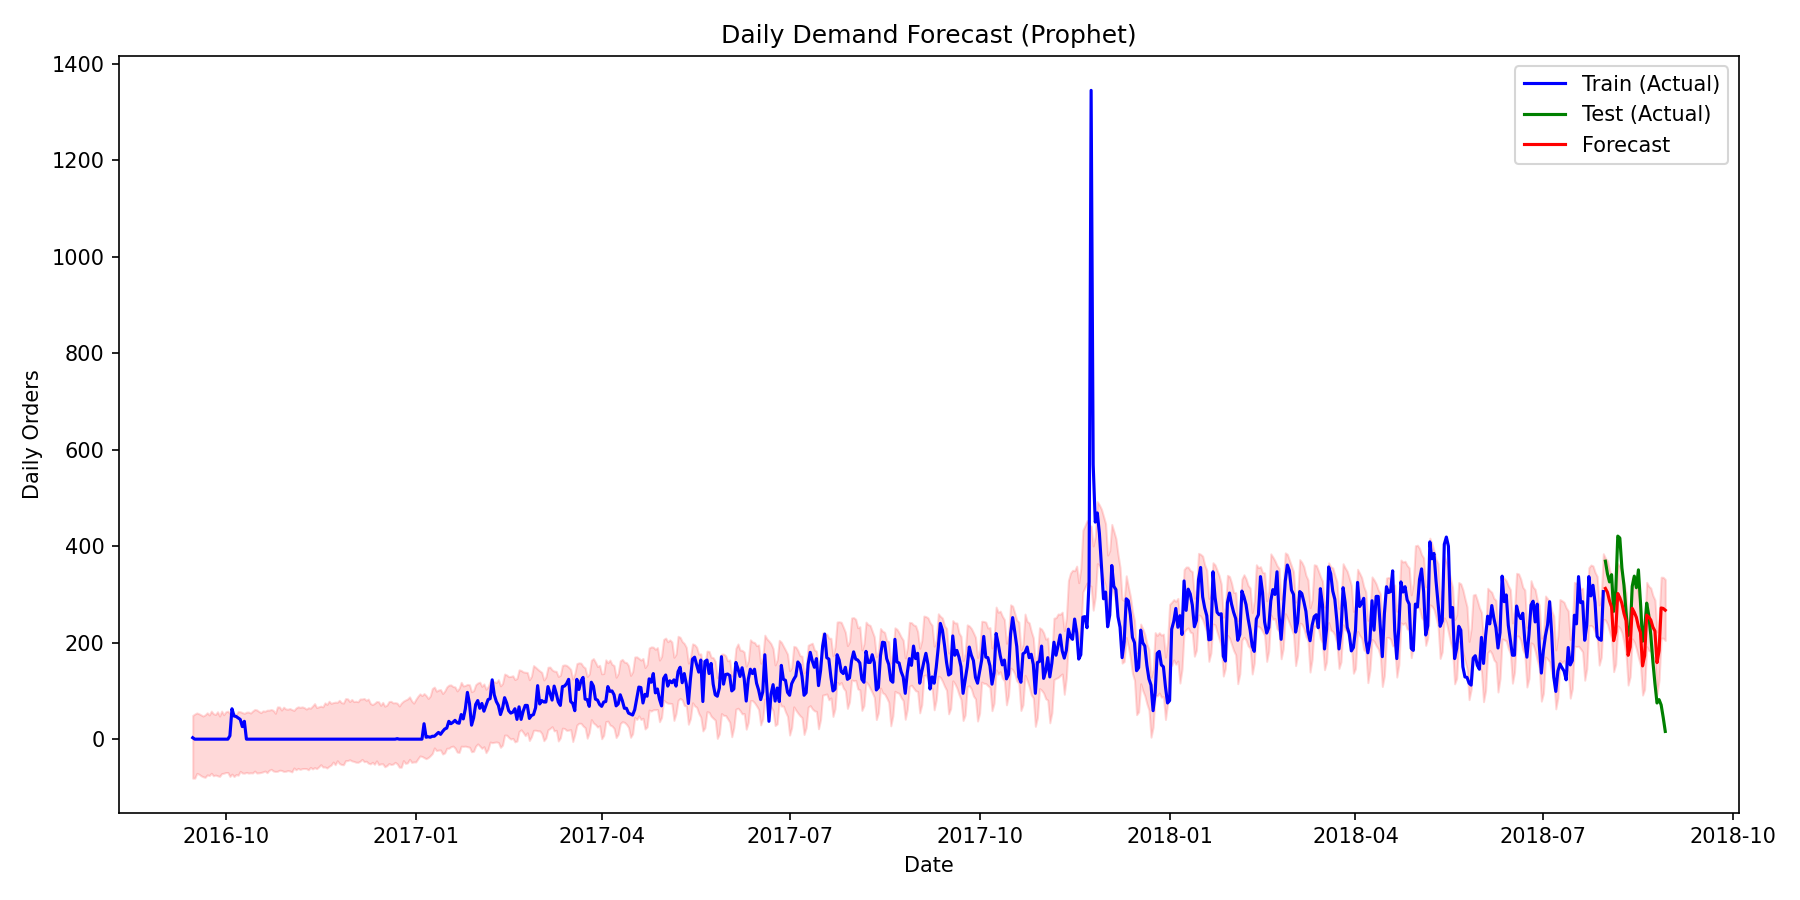
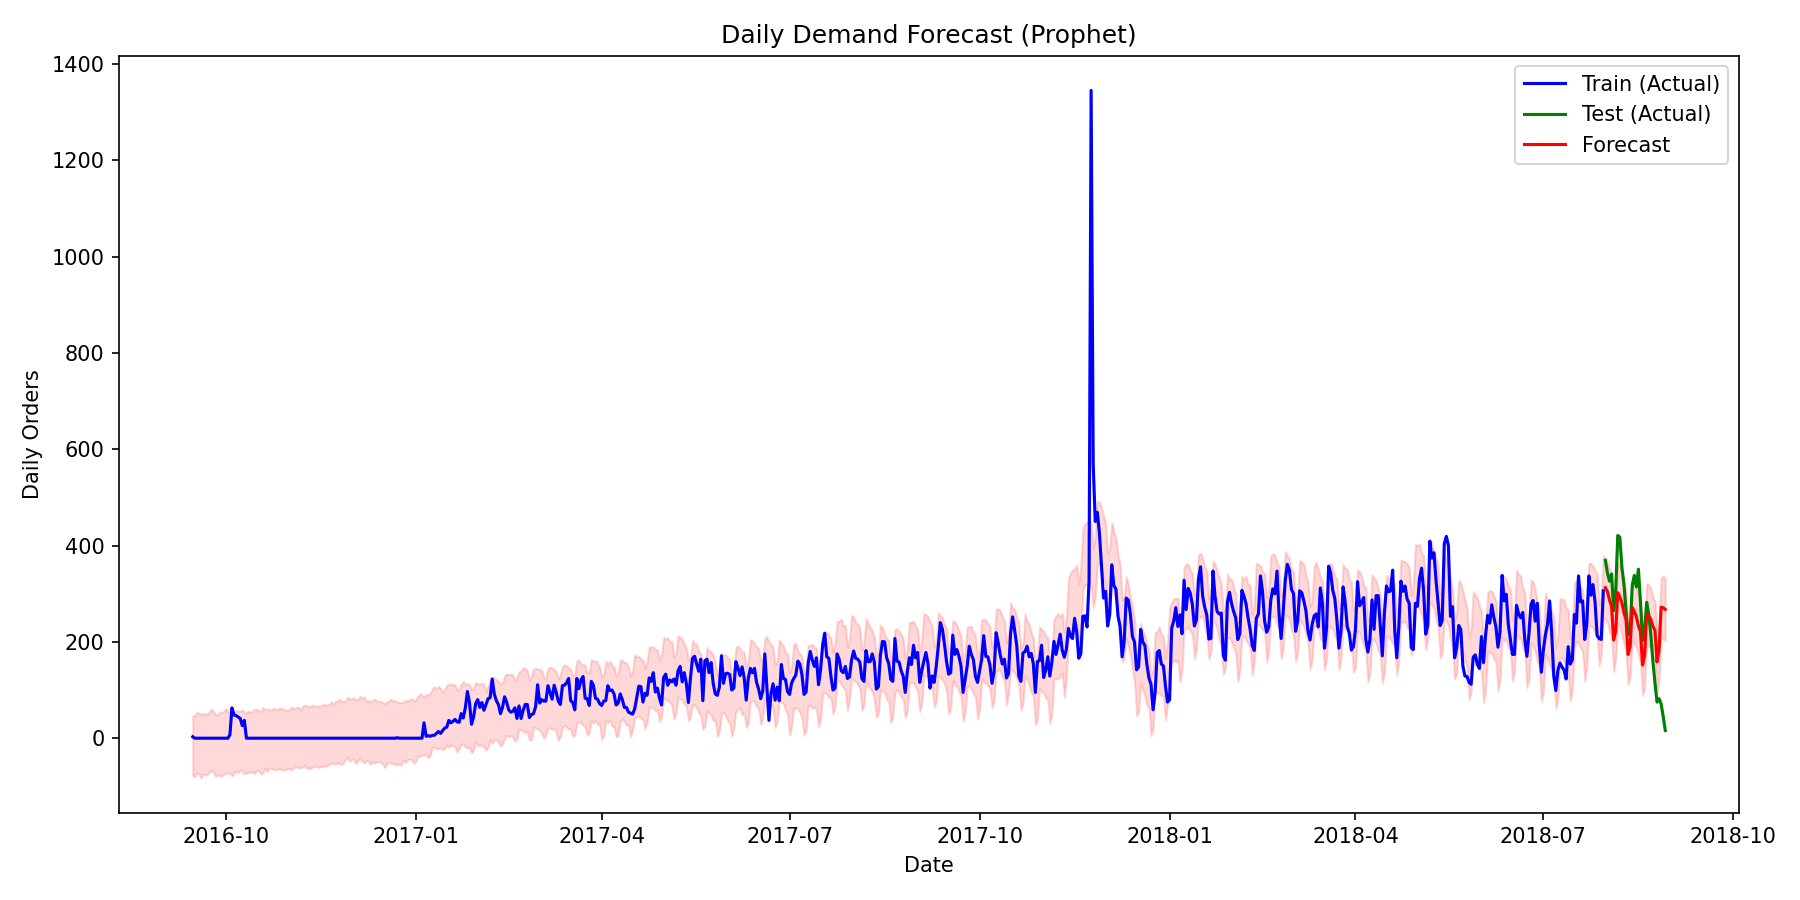
added dynamic features and better models for visualization

diff --git a/app/dashboard.py b/app/dashboard.py
@@ -156,6 +156,56 @@ else:
     orders, items, daily_sales, inventory = load_default_data()
 
 st.sidebar.markdown("---")
+
+# ==========================================
+# SIDEBAR FILTERS (Interactive Analysis)
+# ==========================================
+st.sidebar.markdown("---")
+st.sidebar.subheader("🔍 Global Filters")
+
+# Check if orders data is available to extract states/dates
+if not orders.empty and 'customer_state' in orders.columns:
+    # 1. State Filter
+    all_states = sorted(orders['customer_state'].dropna().unique())
+    selected_states = st.sidebar.multiselect(
+        "Filter by Destination State(s)",
+        options=all_states,
+        default=all_states[:3], # Select first 3 by default to keep it fast
+        help="Select specific Brazilian states to filter the metrics, charts, and predictions."
+    )
+    
+    # Apply State Filter to DataFrame
+    if selected_states:
+        filtered_orders = orders[orders['customer_state'].isin(selected_states)]
+    else:
+        filtered_orders = orders.copy()
+else:
+    filtered_orders = orders.copy()
+
+# 2. Date Range Filter (if purchase timestamp exists)
+if not filtered_orders.empty and 'order_purchase_timestamp' in filtered_orders.columns:
+    min_date = filtered_orders['order_purchase_timestamp'].min().date()
+    max_date = filtered_orders['order_purchase_timestamp'].max().date()
+    
+    selected_date_range = st.sidebar.date_input(
+        "Filter by Date Range",
+        value=(min_date, max_date),
+        min_value=min_date,
+        max_value=max_date,
+        help="Select a start and end date range to narrow down order telemetry."
+    )
+    
+    # Apply Date Range Filter if both start and end dates are selected
+    if len(selected_date_range) == 2:
+        start_d, end_d = selected_date_range
+        filtered_orders = filtered_orders[
+            (filtered_orders['order_purchase_timestamp'].dt.date >= start_d) & 
+            (filtered_orders['order_purchase_timestamp'].dt.date <= end_d)
+        ]
+
+st.sidebar.success(f"📊 Active Records: {len(filtered_orders):,} orders loaded.")
+st.sidebar.markdown("---")
+
 # ==========================================
 # PAGE 1: EXECUTIVE OVERVIEW
 # ==========================================
@@ -163,32 +213,39 @@ if page == "📊 Executive Overview":
     st.title("Supply Chain & Logistics Performance Dashboard")
     st.markdown("Operational overview of fulfillment metrics, SLAs, and delivery timelines across Brazil.")
 
-    if orders.empty or items.empty:
-        st.error("Processed data files not found in `data/processed/`. Please verify your folder structure.")
+    if filtered_orders.empty or items.empty:
+        st.error("Processed data files not found or filtered dataset is empty. Please check your filters or data source.")
     else:
-        orders['on_time'] = orders['delay_days'] <= 0
-        otd_rate = orders['on_time'].mean() * 100
-        avg_delivery = orders['delivery_time_days'].mean()
-        avg_delay = orders['delay_days'].mean()
+        # Use filtered_orders for calculations so sidebar filters work instantly!
+        filtered_orders['on_time'] = filtered_orders['delay_days'] <= 0
+        otd_rate = filtered_orders['on_time'].mean() * 100
+        avg_delivery = filtered_orders['delivery_time_days'].mean()
+        avg_delay = filtered_orders['delay_days'].mean()
         
-        order_freight = items.groupby('order_id')['freight_value'].sum().reset_index()
-        avg_freight = order_freight['freight_value'].mean()
+        # Match items with filtered orders
+        filtered_items = items[items['order_id'].isin(filtered_orders['order_id'])]
+        order_freight = filtered_items.groupby('order_id')['freight_value'].sum().reset_index()
+        avg_freight = order_freight['freight_value'].mean() if not order_freight.empty else 0.0
 
         col1, col2, col3, col4 = st.columns(4)
-        col1.metric("On-Time Delivery Rate", f"{otd_rate:.1f}%", delta=f"{otd_rate - 90:.1f}% vs SLA")
-        col2.metric("Avg Delivery Lead Time", f"{avg_delivery:.1f} days")
-        col3.metric("Avg Delay Metric", f"{avg_delay:.1f} days")
-        col4.metric("Avg Freight per Order", f"R$ {avg_freight:.2f}")
+        col1.metric("On-Time Delivery Rate", f"{otd_rate:.1f}%", delta=f"{otd_rate - 90:.1f}% vs SLA", help="Percentage of orders delivered on or before promised SLA.")
+        col2.metric("Avg Delivery Lead Time", f"{avg_delivery:.1f} days", help="Average total duration from purchase to doorstep delivery.")
+        col3.metric("Avg Delay Metric", f"{avg_delay:.1f} days", help="Average variance between actual delivery date and estimated SLA.")
+        col4.metric("Avg Freight per Order", f"R$ {avg_freight:.2f}", help="Average shipping cost per processed order.")
 
         st.markdown("###")
         col_left, col_right = st.columns(2)
 
         with col_left:
             st.subheader("Daily Order Volume Trend")
-            if not daily_sales.empty:
+            # Update daily sales based on filtered orders
+            filtered_daily_sales = filtered_orders.groupby(filtered_orders['order_purchase_timestamp'].dt.date).size().reset_index(name='orders')
+            filtered_daily_sales.columns = ['date', 'orders']
+            
+            if not filtered_daily_sales.empty:
                 fig_ts = go.Figure()
                 fig_ts.add_trace(go.Scatter(
-                    x=daily_sales['date'], y=daily_sales['orders'], 
+                    x=filtered_daily_sales['date'], y=filtered_daily_sales['orders'], 
                     name="Orders", line=dict(color="#2b5c8f", width=2)
                 ))
                 fig_ts.update_layout(
@@ -202,7 +259,7 @@ if page == "📊 Executive Overview":
 
         with col_right:
             st.subheader("On-Time Delivery Rate by State")
-            state_perf = orders.groupby('customer_state').agg(
+            state_perf = filtered_orders.groupby('customer_state').agg(
                 total=('order_id', 'count'),
                 on_time=('on_time', 'sum')
             ).reset_index()
@@ -223,6 +280,270 @@ if page == "📊 Executive Overview":
             fig_state.update_yaxes(showgrid=True, gridcolor="#f1f3f5")
             st.plotly_chart(fig_state, use_container_width=True)
 
+        # 📦 Delivery Time Distribution Box Plot (Properly indented inside page 1)
+        st.markdown("###")
+        st.subheader("📦 Delivery Time Distribution by State")
+        fig_box = px.box(
+            filtered_orders,
+            x='customer_state', 
+            y='delivery_time_days',
+            title="Delivery Duration Spread & Outliers by Customer State",
+            labels={'delivery_time_days': 'Delivery Duration (Days)', 'customer_state': 'Destination State'},
+            color='customer_state'
+        )
+        fig_box.update_layout(
+            height=400, 
+            margin=dict(l=10, r=10, t=30, b=10), 
+            plot_bgcolor="#ffffff", 
+            paper_bgcolor="#ffffff",
+            showlegend=False
+        )
+        fig_box.update_xaxes(showgrid=False)
+        fig_box.update_yaxes(showgrid=True, gridcolor="#f1f3f5")
+        st.plotly_chart(fig_box, use_container_width=True)
+        # =========================================================================
+        # 🔗 CORRELATION HEATMAP 
+        # =========================================================================
+        st.markdown("###")
+        st.subheader("🔗 Correlation Heatmap")
+
+        # Aggregate item-level metrics up to order level
+        order_agg = filtered_items.groupby('order_id').agg(
+            total_price=('price', 'sum'),
+            total_freight=('freight_value', 'sum'),
+            avg_distance=('seller_to_customer_km', 'mean') if 'seller_to_customer_km' in filtered_items.columns else ('freight_value', 'count'), # fallback
+            num_items=('order_item_id', 'count') if 'order_item_id' in filtered_items.columns else ('price', 'count')
+        ).reset_index()
+
+        # Merge with filtered orders
+        corr_df = filtered_orders.merge(order_agg, on='order_id', how='left')
+        
+        # Select target numeric columns for correlation matrix
+        target_corr_cols = ['delivery_time_days', 'delay_days', 'total_price', 'total_freight']
+        if 'avg_distance' in corr_df.columns:
+            target_corr_cols.append('avg_distance')
+            
+        # Clean data for correlation calculation
+        corr_subset = corr_df[target_corr_cols].dropna()
+
+        if not corr_subset.empty:
+            fig_corr = px.imshow(
+                corr_subset.corr(), 
+                text_auto=".2f", 
+                aspect="auto",
+                title="Correlation Matrix of Logistics Variables",
+                color_continuous_scale="RdBu_r",
+                range_color=[-1, 1]
+            )
+            fig_corr.update_layout(
+                height=450, 
+                margin=dict(l=10, r=10, t=30, b=10),
+                plot_bgcolor="#ffffff", 
+                paper_bgcolor="#ffffff"
+            )
+            st.plotly_chart(fig_corr, use_container_width=True)
+        else:
+            st.info("ℹ Insufficient data overlap to compute the correlation matrix for these filters.")
+
+        # =========================================================================
+        # 📈  DISTANCE VS DELIVERY TIME SCATTER PLOT
+        # =========================================================================
+        st.markdown("###")
+        st.subheader("📈 Distance vs Delivery Time")
+        
+        if not corr_df.empty and 'avg_distance' in corr_df.columns and 'delivery_time_days' in corr_df.columns:
+            fig_scatter = px.scatter(
+                corr_df, 
+                x='avg_distance', 
+                y='delivery_time_days',
+                color='delay_days' if 'delay_days' in corr_df.columns else None, 
+                size='total_freight' if 'total_freight' in corr_df.columns else None,
+                hover_data=['order_id'] if 'order_id' in corr_df.columns else None,
+                title="Impact of Distance on Delivery Time and Cost",
+                labels={
+                    'avg_distance': 'Average Distance (km)', 
+                    'delivery_time_days': 'Delivery Duration (Days)',
+                    'delay_days': 'Delay (Days)',
+                    'total_freight': 'Freight Cost (R$)'
+                },
+                color_continuous_scale="Viridis"
+            )
+            fig_scatter.update_layout(
+                height=450, 
+                margin=dict(l=10, r=10, t=30, b=10),
+                plot_bgcolor="#ffffff", 
+                paper_bgcolor="#ffffff"
+            )
+            fig_scatter.update_xaxes(showgrid=True, gridcolor="#f1f3f5")
+            fig_scatter.update_yaxes(showgrid=True, gridcolor="#f1f3f5")
+            st.plotly_chart(fig_scatter, use_container_width=True)
+        else:
+            st.info("ℹ Insufficient data available to render the distance vs delivery time scatter plot.")
+
+        # =========================================================================
+        #  ON-TIME DELIVERY RATE BY STATE (BAR CHART)
+        # =========================================================================
+        st.markdown("###")
+        st.subheader("✅ On-Time Delivery Rate by State")
+
+        # Ensure 'on_time' column exists in filtered_orders
+        if 'on_time' not in filtered_orders.columns and 'delay_days' in filtered_orders.columns:
+            filtered_orders['on_time'] = filtered_orders['delay_days'] <= 0
+
+        if 'customer_state' in filtered_orders.columns and 'on_time' in filtered_orders.columns:
+            # Compute OTD per state on filtered orders
+            state_otd = filtered_orders.groupby('customer_state').agg(
+                total_orders=('order_id', 'count'),
+                on_time=('on_time', 'sum')
+            ).reset_index()
+            
+            state_otd['otd_rate'] = (state_otd['on_time'] / state_otd['total_orders']) * 100
+            state_otd = state_otd.sort_values('otd_rate', ascending=True) # Sorted ascending for clean bar layout
+
+            fig_otd = px.bar(
+                state_otd, 
+                x='customer_state', 
+                y='otd_rate',
+                title="On-Time Delivery Rate by State (%)",
+                labels={'otd_rate': 'OTD %', 'customer_state': 'Destination State'},
+                color='otd_rate',
+                color_continuous_scale='blues'
+            )
+            fig_otd.update_layout(
+                height=400, 
+                margin=dict(l=10, r=10, t=30, b=10),
+                plot_bgcolor="#ffffff", 
+                paper_bgcolor="#ffffff",
+                coloraxis_showscale=False
+            )
+            fig_otd.update_xaxes(showgrid=False)
+            fig_otd.update_yaxes(showgrid=True, gridcolor="#f1f3f5", range=[0, 100])
+            st.plotly_chart(fig_otd, use_container_width=True)
+        else:
+            st.info("ℹ Insufficient data to calculate OTD rate by state.")
+
+        # =========================================================================
+        # ⏳ STEP 9: AVERAGE DELAY OVER TIME
+        # =========================================================================
+        st.markdown("###")
+        st.subheader("⏳ Average Delay Over Time")
+        
+        if not filtered_orders.empty and 'order_purchase_timestamp' in filtered_orders.columns and 'delay_days' in filtered_orders.columns:
+            # Ensure datetime type and resample correctly
+            df_delay_temp = filtered_orders.copy()
+            df_delay_temp['order_purchase_timestamp'] = pd.to_datetime(df_delay_temp['order_purchase_timestamp'])
+            
+            daily_delay = df_delay_temp.set_index('order_purchase_timestamp').resample('D')['delay_days'].mean().reset_index()
+            
+            fig_delay = px.line(
+                daily_delay, 
+                x='order_purchase_timestamp', 
+                y='delay_days',
+                title="Daily Average Delay (days)",
+                labels={'order_purchase_timestamp': 'Purchase Date', 'delay_days': 'Average Delay (Days)'}
+            )
+            fig_delay.update_layout(
+                height=400, 
+                margin=dict(l=10, r=10, t=30, b=10),
+                plot_bgcolor="#ffffff", 
+                paper_bgcolor="#ffffff"
+            )
+            fig_delay.update_xaxes(showgrid=True, gridcolor="#f1f3f5")
+            fig_delay.update_yaxes(showgrid=True, gridcolor="#f1f3f5")
+            st.plotly_chart(fig_delay, use_container_width=True)
+        else:
+            st.info("ℹ Insufficient data available to render the delay over time chart.")
+
+        # =========================================================================
+        # 🕒 STEP 10: ORDER VOLUME BY DAY AND HOUR (HEATMAP)
+        # =========================================================================
+        st.markdown("###")
+        st.subheader("🕒 Order Volume by Day and Hour")
+
+        if not filtered_orders.empty and 'order_purchase_timestamp' in filtered_orders.columns:
+            # Create a copy to avoid SettingWithCopyWarning
+            df_heat_temp = filtered_orders.copy()
+            df_heat_temp['hour'] = pd.to_datetime(df_heat_temp['order_purchase_timestamp']).dt.hour
+            df_heat_temp['day_of_week'] = pd.to_datetime(df_heat_temp['order_purchase_timestamp']).dt.day_name()
+            
+            # Create pivot table
+            heat_data = df_heat_temp.pivot_table(index='day_of_week', columns='hour', values='order_id', aggfunc='count').fillna(0)
+            
+            # Order days correctly
+            days_order = ['Monday', 'Tuesday', 'Wednesday', 'Thursday', 'Friday', 'Saturday', 'Sunday']
+            heat_data = heat_data.reindex(days_order).dropna(how='all')
+            
+            if not heat_data.empty:
+                fig_heat = px.imshow(
+                    heat_data,
+                    labels=dict(x="Hour of Day", y="Day of Week", color="Order Count"),
+                    x=heat_data.columns,
+                    y=heat_data.index,
+                    title="Order Density Heatmap by Day of Week and Hour",
+                    color_continuous_scale="Blues"
+                )
+                fig_heat.update_layout(
+                    height=400,
+                    margin=dict(l=10, r=10, t=30, b=10),
+                    plot_bgcolor="#ffffff",
+                    paper_bgcolor="#ffffff"
+                )
+                st.plotly_chart(fig_heat, use_container_width=True)
+            else:
+                st.info("ℹ Insufficient time data to render the demand heatmap.")
+        else:
+            st.info("ℹ Order purchase timestamps are missing from the dataset.")
+
+        # =========================================================================
+        # ⚠ STEP 11: ANOMALY DETECTION ALERTS
+        # =========================================================================
+        st.markdown("###")
+        st.subheader("⚠ Anomaly Alerts")
+
+        # Check if an anomalies file exists, or compute statistical anomalies on the fly from filtered orders
+        anomaly_file_path = 'data/processed/anomalies_detected.csv'
+        
+        if os.path.exists(anomaly_file_path):
+            anomalies_df = pd.read_csv(anomaly_file_path)
+            st.warning(f"🚨 Detected {len(anomalies_df):,} logistical anomalies flagged by ML models.")
+            st.dataframe(anomalies_df[['order_id', 'customer_state', 'delivery_time_days', 'delay_days']].head(10), use_container_width=True)
+        else:
+            # Fallback: Dynamically flag extreme outlier deliveries (> 3 standard deviations from mean)
+            if not filtered_orders.empty and 'delivery_time_days' in filtered_orders.columns:
+                mean_dur = filtered_orders['delivery_time_days'].mean()
+                std_dur = filtered_orders['delivery_time_days'].std()
+                threshold = mean_dur + (3 * std_dur)
+                
+                anomalies_df = filtered_orders[filtered_orders['delivery_time_days'] > threshold]
+                
+                if not anomalies_df.empty:
+                    st.warning(f"🚨 Flagged {len(anomalies_df):,} high-latency delivery outliers exceeding normal operational thresholds (> {threshold:.1f} days).")
+                    display_cols = [col for col in ['order_id', 'customer_state', 'delivery_time_days', 'delay_days'] if col in anomalies_df.columns]
+                    st.dataframe(anomalies_df[display_cols].head(10), use_container_width=True)
+                else:
+                    st.success("✅ No extreme logistical delivery anomalies detected in the current filter selection.")
+            else:
+                st.info("ℹ Anomaly detection data not found. Run your Isolation Forest or outlier detection script to generate alerts.")
+
+            # =========================================================================
+        # 📥 STEP 12: DOWNLOAD FILTERED DATA
+        # =========================================================================
+        st.markdown("###")
+        st.subheader("📥 Download Filtered Data")
+
+        if not filtered_orders.empty:
+            # Convert filtered dataframe to CSV bytes
+            csv_data = filtered_orders.to_csv(index=False).encode('utf-8')
+            
+            st.download_button(
+                label="📥 Download Filtered Orders CSV",
+                data=csv_data,
+                file_name='filtered_orders_export.csv',
+                mime='text/csv',
+                help="Click to download the current filtered dataset based on your active sidebar selections."
+            )
+        else:
+            st.info("ℹ No data available to download for the current filter selection.")
 # ==========================================
 # PAGE 2: DEMAND FORECASTING (PROPHET)
 # ==========================================
@@ -353,4 +674,4 @@ elif page == "📦 Inventory & Route Optimization":
     if os.path.exists('reports/figures/sp_delivery_clusters.png'):
         st.image('reports/figures/sp_delivery_clusters.png', caption="São Paulo Delivery Zone Optimization (K-Means Clustering)", use_container_width=True)
     else:
-        st.warning("⚠ Cluster figure not found. Please run `python scripts/run_optimization.py` to generate the image.")
+        st.warning("⚠ Cluster figure not found. Please run `python scripts/run_optimization.py` to generate the image.")   
